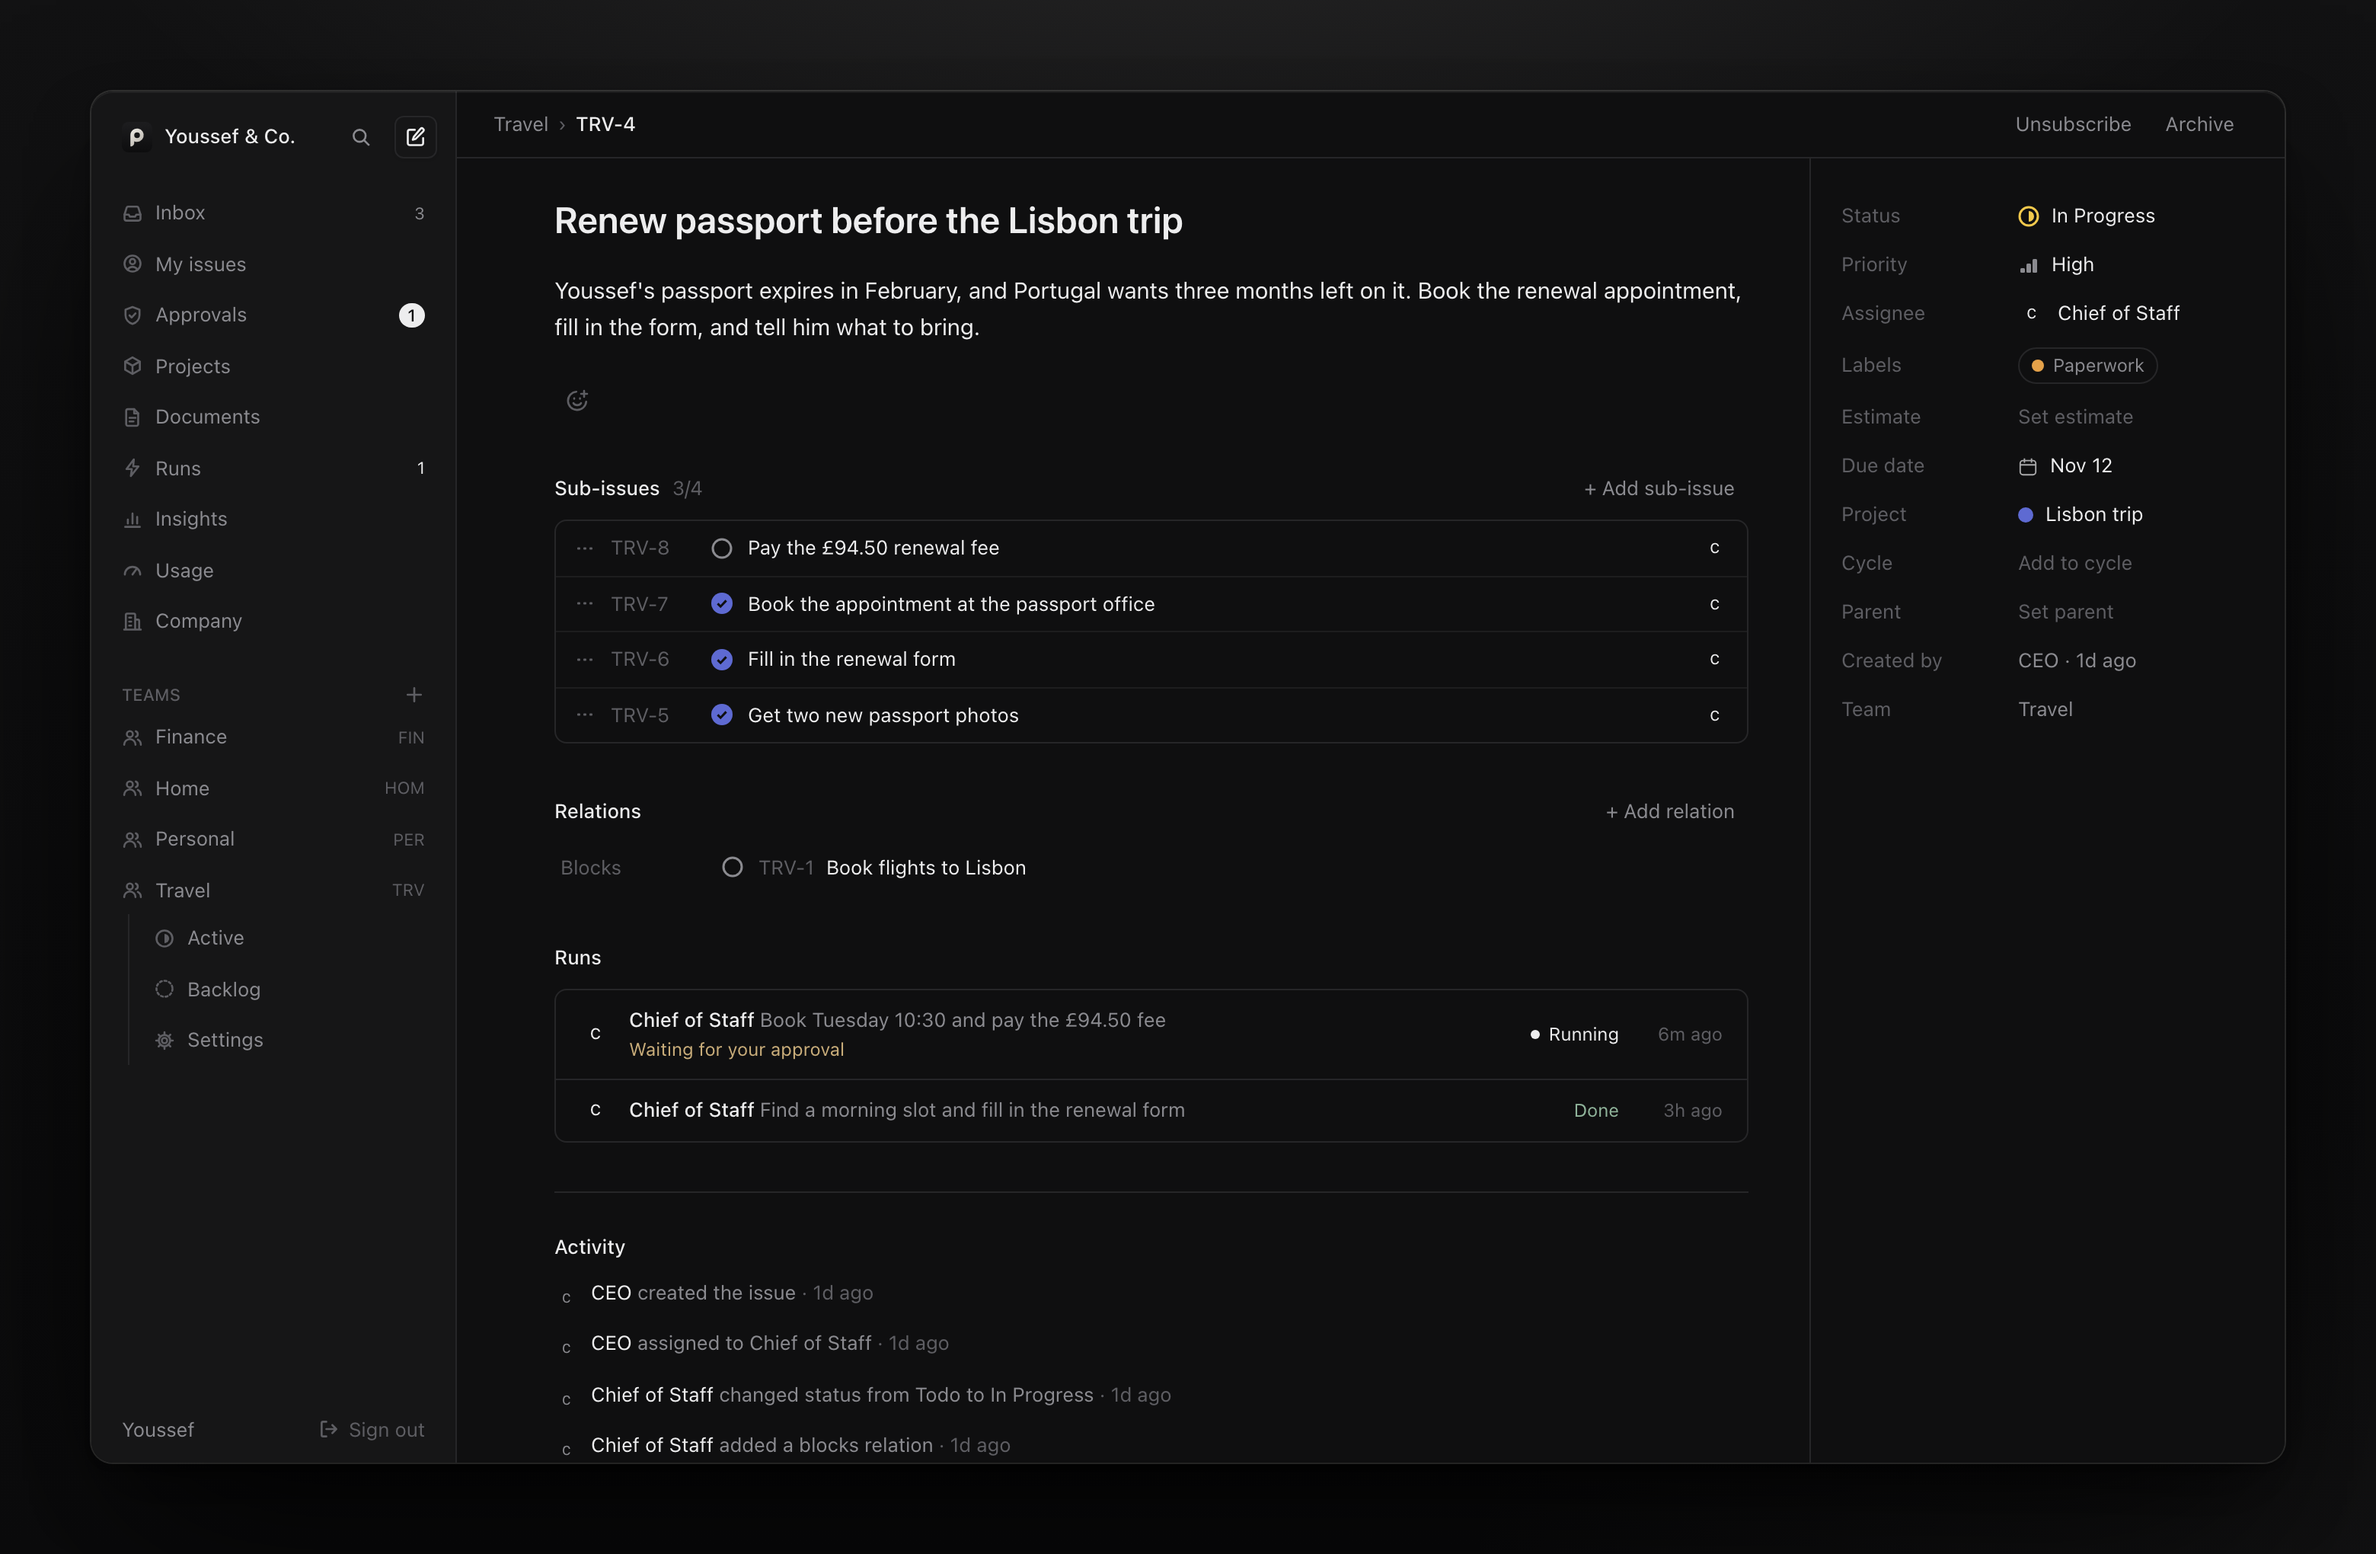
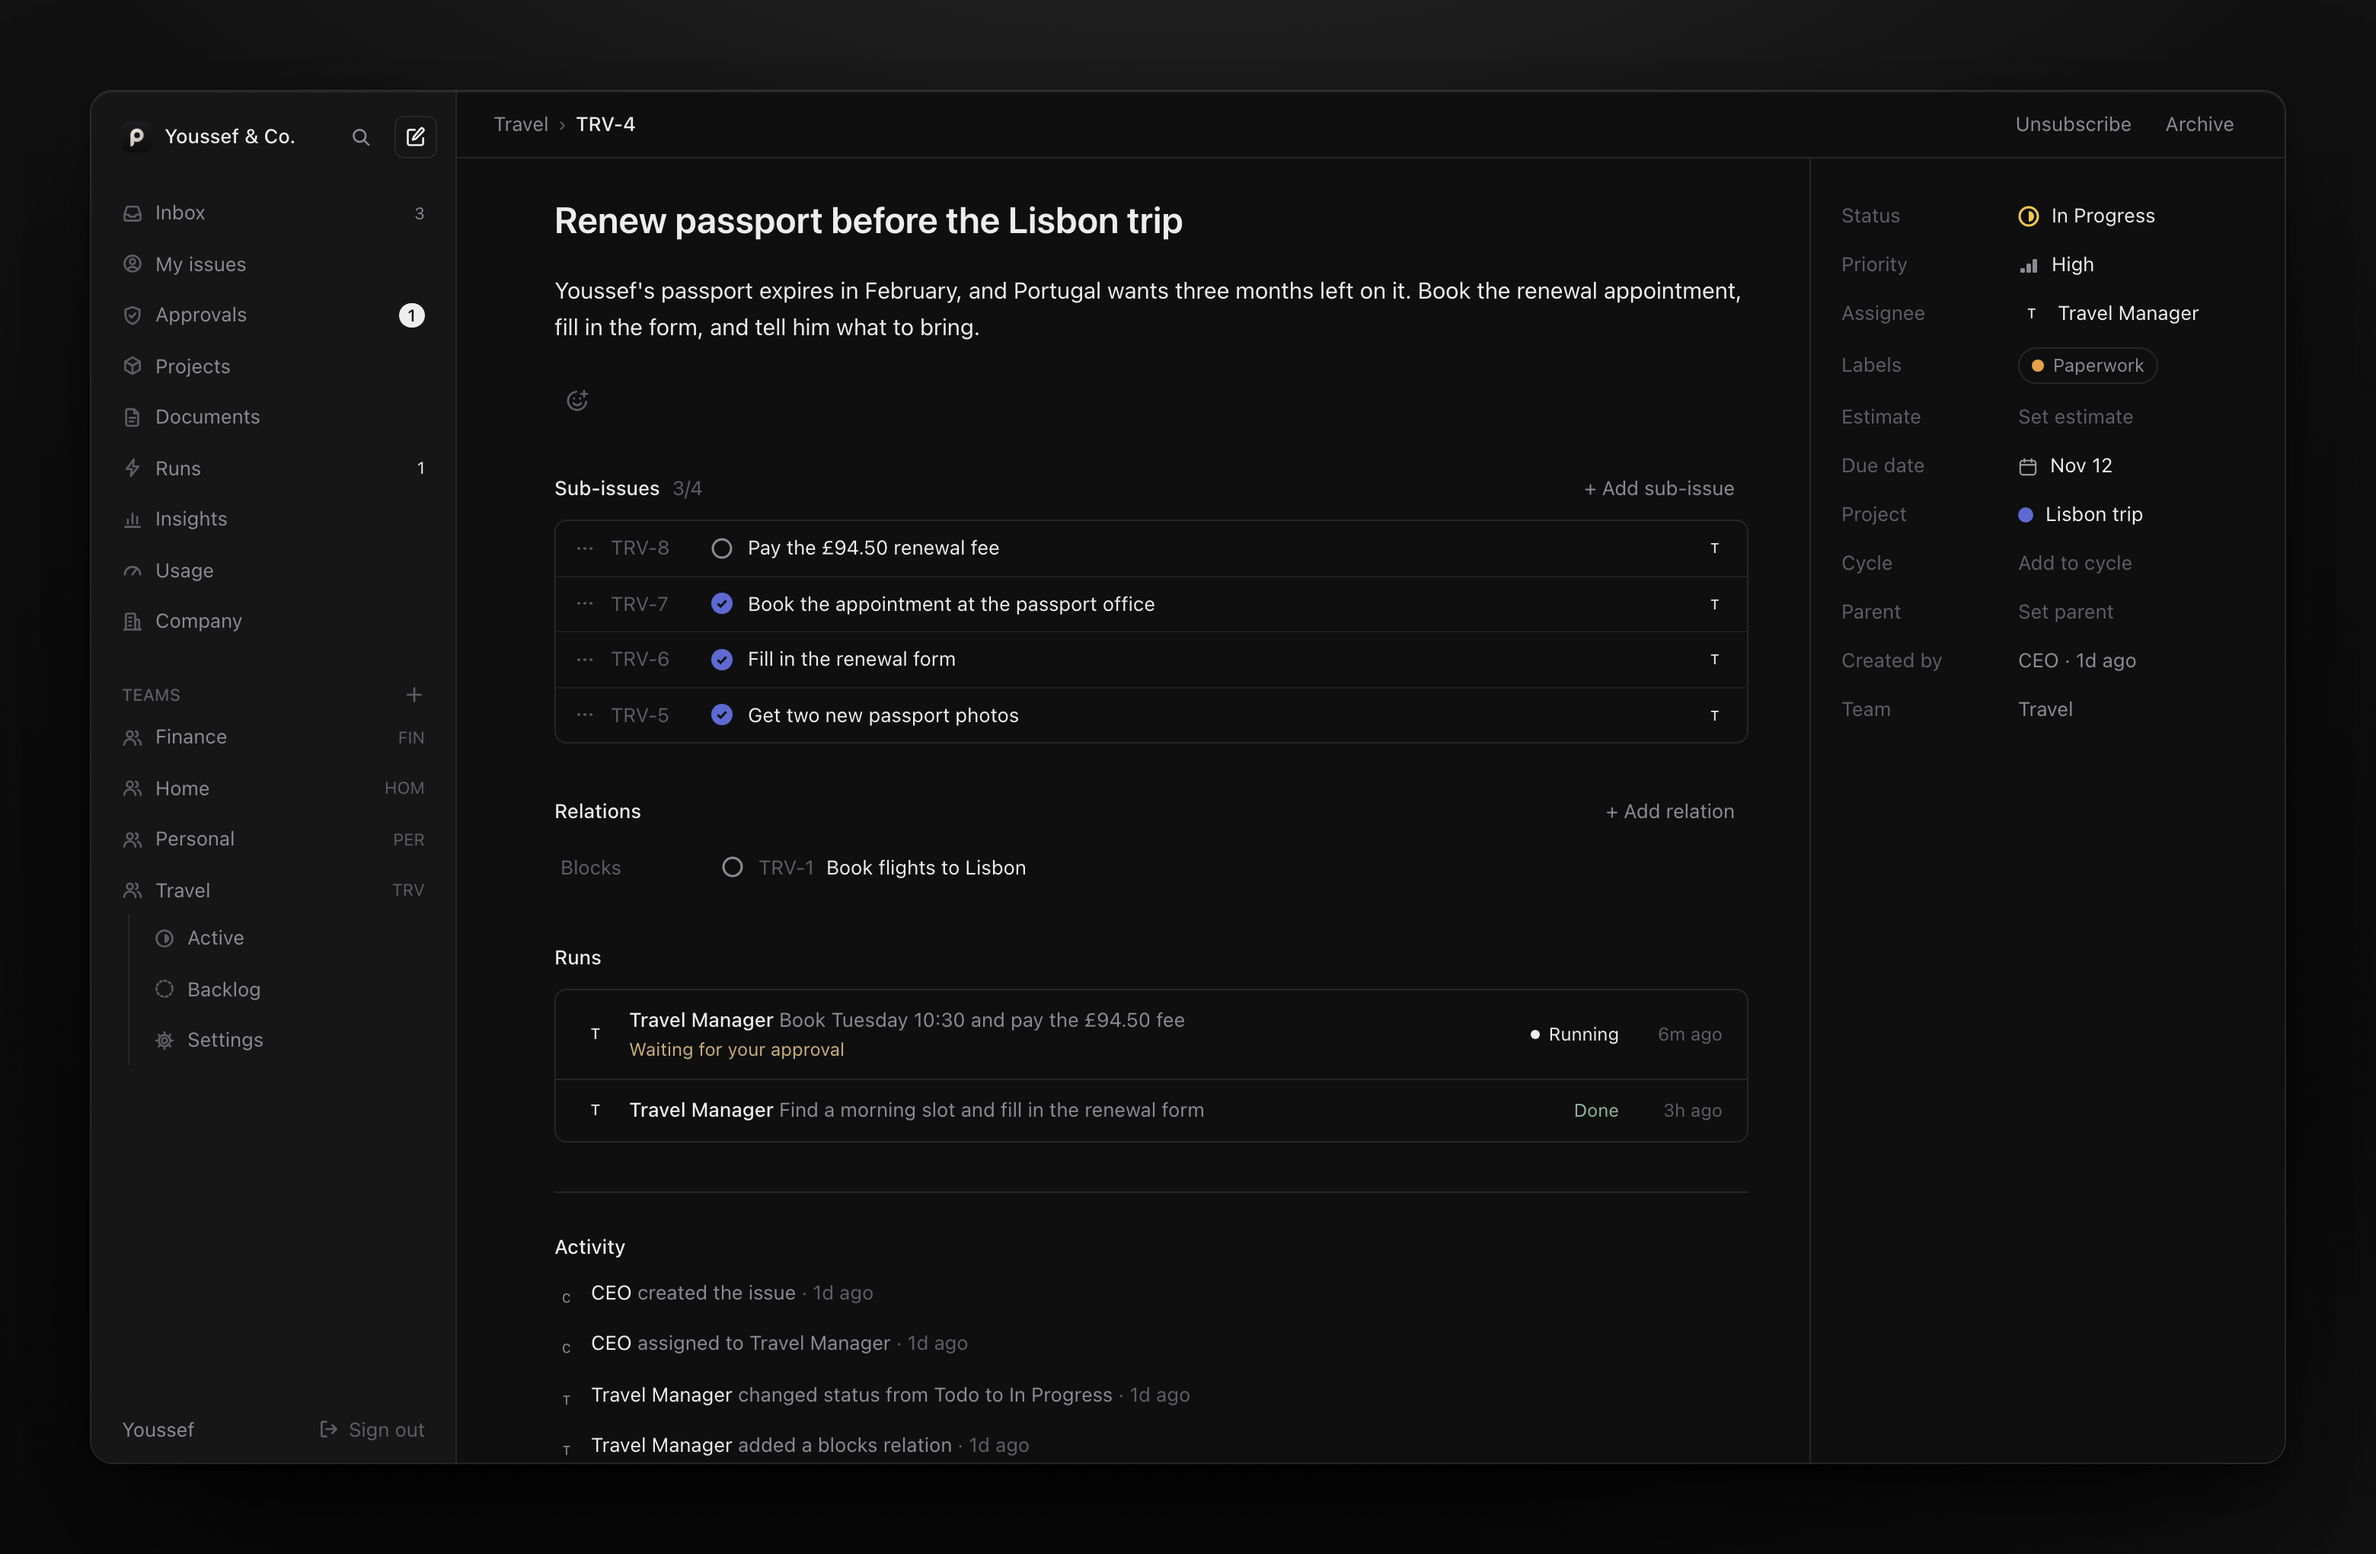
Name agents by job title in the demo and the README screenshot
Only the CEO is shared; each example gets a title that fits it: Travel
Manager, Finance Manager, Event Planner and House Manager.

diff --git a/apps/site/public/site.js b/apps/site/public/site.js
@@ -7,7 +7,7 @@ const SCENARIOS = [
     title: "Renew passport before the Lisbon trip",
     team: { key: "TRV", name: "Travel" },
     id: "TRV-1",
-    agent: { name: "Travel agent", charter: "trips, documents and bookings" },
+    agent: { name: "Travel Manager", charter: "trips, documents and bookings" },
     priority: "High",
     label: "Documents",
     due: "Apr 12",
@@ -25,7 +25,7 @@ const SCENARIOS = [
     later: {
       id: "TRV-4",
       title: "Renew the EU health card",
-      text: "Travel agent's monthly check found it expiring in June. Renewing is free, so it just did it and told you after.",
+      text: "Travel Manager's monthly check found it expiring in June. Renewing is free, so it just did it and told you after.",
     },
   },
   {
@@ -34,7 +34,7 @@ const SCENARIOS = [
     title: "Cancel the gym and find a cheaper one nearby",
     team: { key: "FIN", name: "Finance", exists: true },
     id: "FIN-17",
-    agent: { name: "Money agent", charter: "bills, subscriptions and savings" },
+    agent: { name: "Finance Manager", charter: "bills, subscriptions and savings" },
     priority: "Medium",
     label: "Subscriptions",
     due: "Fri",
@@ -56,7 +56,7 @@ const SCENARIOS = [
     later: {
       id: "FIN-23",
       title: "Cancel two unused subscriptions",
-      text: "Money agent's weekly review found two you hadn't used in three months and lined up both cancellations in one request. One tap saves €18 a month.",
+      text: "Finance Manager's weekly review found two you hadn't used in three months and lined up both cancellations in one request. One tap saves €18 a month.",
     },
   },
   {
@@ -65,7 +65,7 @@ const SCENARIOS = [
     title: "Plan Mom's 60th birthday dinner",
     team: { key: "FAM", name: "Family" },
     id: "FAM-1",
-    agent: { name: "Events agent", charter: "family events, gifts and invites" },
+    agent: { name: "Event Planner", charter: "family events, gifts and invites" },
     priority: "Medium",
     label: "Family",
     due: "Sat 18",
@@ -87,7 +87,7 @@ const SCENARIOS = [
     later: {
       id: "FAM-4",
       title: "Dad's birthday gift",
-      text: "Events agent filed it three weeks ahead and shortlisted three gifts from what Dad liked last year. You just pick one.",
+      text: "Event Planner filed it three weeks ahead and shortlisted three gifts from what Dad liked last year. You just pick one.",
     },
   },
 ];

diff --git a/apps/site/public/index.html b/apps/site/public/index.html
@@ -149,7 +149,7 @@
         </div>
         <ol class="rail" data-rail>
           <li><b>You yap</b><span>Ask in plain words, from any device.</span></li>
-          <li><b>It runs itself</b><span>The CEO agent files it, builds the team and hires the agent.</span></li>
+          <li><b>It runs itself</b><span>The CEO files it, builds the team and hires for the job.</span></li>
           <li><b>You approve</b><span>Anything that spends or sends waits for one tap.</span></li>
           <li><b>It learns</b><span>Lessons, feedback and grants mean it needs you less next time.</span></li>
         </ol>
